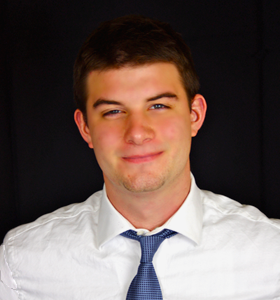
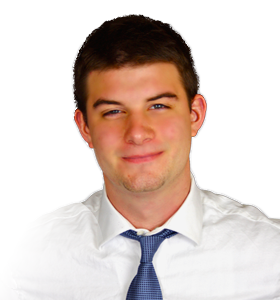
progress checkpoint

diff --git a/css/master.css b/css/master.css
@@ -18,20 +18,48 @@
   *zoom: 1;
 }
 html {
-  background: black;
+  background: #000000 url(../images/bg.png) repeat left top;
+  font-family: 'Open Sans', sans-serif;
+  color: #3a3c40;
 }
 html body {
   -moz-box-sizing: border-box;
   -webkit-box-sizing: border-box;
   box-sizing: border-box;
-  padding: 20px;
   width: 960px;
   margin: 0 auto;
-  background: white;
-  padding: 10px 20px;
+  padding: 20px;
+  background: rgba(255, 255, 255, 0.4);
+}
+html h1,
+html h2,
+html h3,
+html h4,
+html h5 {
+  font-family: 'Julius Sans One', sans-serif;
+  text-shadow: 0px 0px 8px rgba(153, 20, 232, 0.1);
 }
 html h1 {
   font-size: 2.4em;
+}
+header a.logo {
+  display: block;
+}
+header nav#header-nav ul {
+  list-style-type: none;
+  margin: 0px;
+  padding: 0px;
+}
+header nav#header-nav ul li {
+  float: left;
+}
+header nav#header-nav ul li a {
+  display: block;
+}
+div.hero {
+  background: #ffffff url(../images/me.png) right bottom no-repeat;
+  min-height: 280px;
+  padding: 0 20px;
 }
 section#recommendations div.article-wrap {
   -moz-box-sizing: border-box;
@@ -42,8 +70,11 @@ section#recommendations div.article-wrap {
 }
 section#recommendations div.article-wrap article {
   margin-bottom: 20px;
-  padding-bottom: 20px;
-  border-bottom: 1px solid rgba(0, 0, 0, 0.4);
+  padding: 20px;
+  background: rgba(255, 255, 255, 0.4);
+  -webkit-border-radius: 4px;
+  -moz-border-radius: 4px;
+  border-radius: 4px;
 }
 section#recommendations div.article-wrap article h1 {
   margin-top: 0px;

diff --git a/css/master.less b/css/master.less
@@ -16,22 +16,57 @@
     *zoom: 1;
 }
 
+//palette
+@text-gray: #3A3C40;
+
+
 //globals
 html{
-	background: black;
+	background: black url(../images/bg.png) repeat left top;
+	font-family: 'Open Sans', sans-serif;
+	color: @text-gray;
 	body{
 		-moz-box-sizing: border-box;
 		-webkit-box-sizing: border-box;
 		box-sizing: border-box;
-		padding: 20px;
 		width: 960px;
 		margin: 0 auto;
-		background: white;
-		padding: 10px 20px;
+		padding: 20px;
+		background: rgba(255,255,255,.4);
+	}
+	h1,h2,h3,h4,h5{
+		font-family: 'Julius Sans One', sans-serif;
+		text-shadow: 0px 0px 8px rgba(153,20,232,.1);
 	}
 	h1{
 		font-size: 2.4em;
 	}
+}
+
+header{
+	a.logo{
+		display: block;
+	}
+	nav#header-nav{
+		ul{
+			list-style-type: none;
+			margin: 0px;
+			padding: 0px;
+			li{
+				float: left;
+				a{
+					display: block;
+				}
+			}
+		}
+	}
+}
+
+div.hero{
+	background: white url(../images/me.png) right bottom no-repeat;
+	min-height: 280px;
+	padding: 0 20px;
+
 }
 
 section#recommendations{
@@ -43,8 +78,11 @@ section#recommendations{
 		float: left;
 		article{
 			margin-bottom: 20px;
-			padding-bottom: 20px;
-			border-bottom: 1px solid rgba(0,0,0,.4);
+			padding: 20px;
+			background: rgba(255,255,255,.4);
+		  -webkit-border-radius: 4px; 
+		  -moz-border-radius: 4px; 
+		  border-radius: 4px; 
 			h1{
 				margin-top: 0px;
 			}

diff --git a/index.html b/index.html
@@ -3,18 +3,26 @@
 	<head>
 		<meta charset="utf-8">
 		<title>My First Site!</title>
+		<link href='http://fonts.googleapis.com/css?family=Julius+Sans+One|Open+Sans:400,700' rel='stylesheet' type='text/css'>
 		<link rel="stylesheet" type="text/css" href="css/master.css">
 	</head>
 	<body>
 		<header>
-			<a href="./"><img src="images/logo.png" alt="Zachary Lincoln's Logo"></a>
+			<a href="index.html" class="logo"><img src="images/logo.png" alt="Zachary Lincoln's Logo"></a>
 			<nav id="header-nav">
-				<ul>
+				<ul class="clearfix">
 					<li><a href="#frameworks">HTML/CSS Frameworks</a></li>
 					<li><a href="#ready-first-job">Get Ready For First Job</a></li>
 				</ul>
 			</nav>
 		</header>
+		<div id="main-content">
+			<div class="hero">
+				<h1>Zachary Lincoln</h1>
+				<h2>Web solutions and online marketing.</h2>
+				<a href="#" class="btn btn-primary">Contact Me</a>
+			</div>
+		</div>
 		<section id="recommendations" class="clearfix">
 			<div class="article-wrap">
 				<article id="frameworks">
